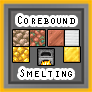
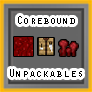
2026-06-2027 - unpackables and advancements
fixed corebound:load_new from loading. now loads as intented.
added unpackable logic to corebound:load_new.
altered the tellraws for the modules to state the module they are from.
fixed advancement layouts
added unpackable-netherwart from block
started woodlathe pack

diff --git a/README.md b/README.md
@@ -5,7 +5,7 @@ A vanilla Minecraft server built from 1.21.9 - The Copper Age with datapacks, cu
 - Corebound Advancements: 
     new features added to advancements so that you can see what Corebound module has loaded and what it adds.
 
-- Corebound System
+- Corebound System:
     Its primary purpose is to provide a common framework for:
     - Minecraft version detection
     - First-join player initialization
@@ -14,7 +14,7 @@ A vanilla Minecraft server built from 1.21.9 - The Copper Age with datapacks, cu
     - Datapack compatibility management
     - Common uninstall procedures
 
-- Corebound Set Items
+- Corebound Set Items:
     - Items now belong to sets. More items equiped from the set the more effects are active.
     - effects refresh every 10 seconds
         - Newbie Set (Leather Armour): 
@@ -23,7 +23,8 @@ A vanilla Minecraft server built from 1.21.9 - The Copper Age with datapacks, cu
             - 3/4: Regeneration 1 
             - 4/4: Resistance 1
 
-- Corebound Magnet: 
+
+- Corebound Magnet: ![Spawn](datapacks/magnet/media/magnet.png)
     - uses a custom named echo shard named "Magnet" 
     - pulls dropped items and experience orbs
 
@@ -40,39 +41,32 @@ A vanilla Minecraft server built from 1.21.9 - The Copper Age with datapacks, cu
         - cook time is 9 time longer that raw pieces - 30 seconds cook time.
     - added rotten flesh to leather, furnace only
 
-- Vanilla Fix: 
-    - add smithing table recipces to the crafting table to tell you how to get netherite gear.
-    - added wool to string. crafting table
-    - logs to stick
-    - logs to chest
-    - logs used instead of chests in recipes where there is a empty slot
-    - barrels interchangable with chests
+- Corebound Crafting
+    - added unpacking recipe for netherwart from netherwart block
 
-- Corebound Spectator Night Vision
+- Corebound Spectator Night Vision:
     - by default player in spectator mode can not see dark areas. this module grants spectators nightvision
-        removed nightvision when out of spectator (gm3)
 
-- Corebound Custom Dimensions
+- Corebound Custom Dimensions:
     - Spawn island
     - Altar island
     - Skyblock like player homes. /trigger sbhome
 
-- Corebound Respawn Buff
+- Corebound Respawn Buff:
     - when a player gets killed, they recive 10 seconds of buffs to regain
 
-- Leaderboards
+- Leaderboards:
     - Vibe leaderboard in chat and at spawn via text_display
 
-- Stat book
+- Stat book:
     - allows players to see what their attributes are
 
-- Player Auras
+- Player Auras:
     - beacon effects on a player
     - buffs other players but not you. other players buff you.
 
 - Resets of Overworld, Nether, and End
 - Contribution Altar
-- Item Sets: 4p Newbie set grants: Luck 1, Regen 1, Speed 1, Resistance 1
 
 - Currently uses several VanillaTweaks datapacks but will be replacing those with Corebound speficic funtions.
     - the VanillaTweaks datapacks are: 
@@ -91,7 +85,8 @@ A vanilla Minecraft server built from 1.21.9 - The Copper Age with datapacks, cu
 5. Contribute to CoreBound's evolution
 
 ## Development Notes
-Some ideas and programming assistance were generated with the help of AI tools (ChatGPT) for briainstorming and function logic. All code was tested, intergrated and reviewed manually. 
+AI tools were used for brainstorming, documentation help, and exploring possible function logic.
+All datapack functions, systems, and implementations were manually tested and reviewed.
 
 ## Resources
 https://vanillatweaks.net/
